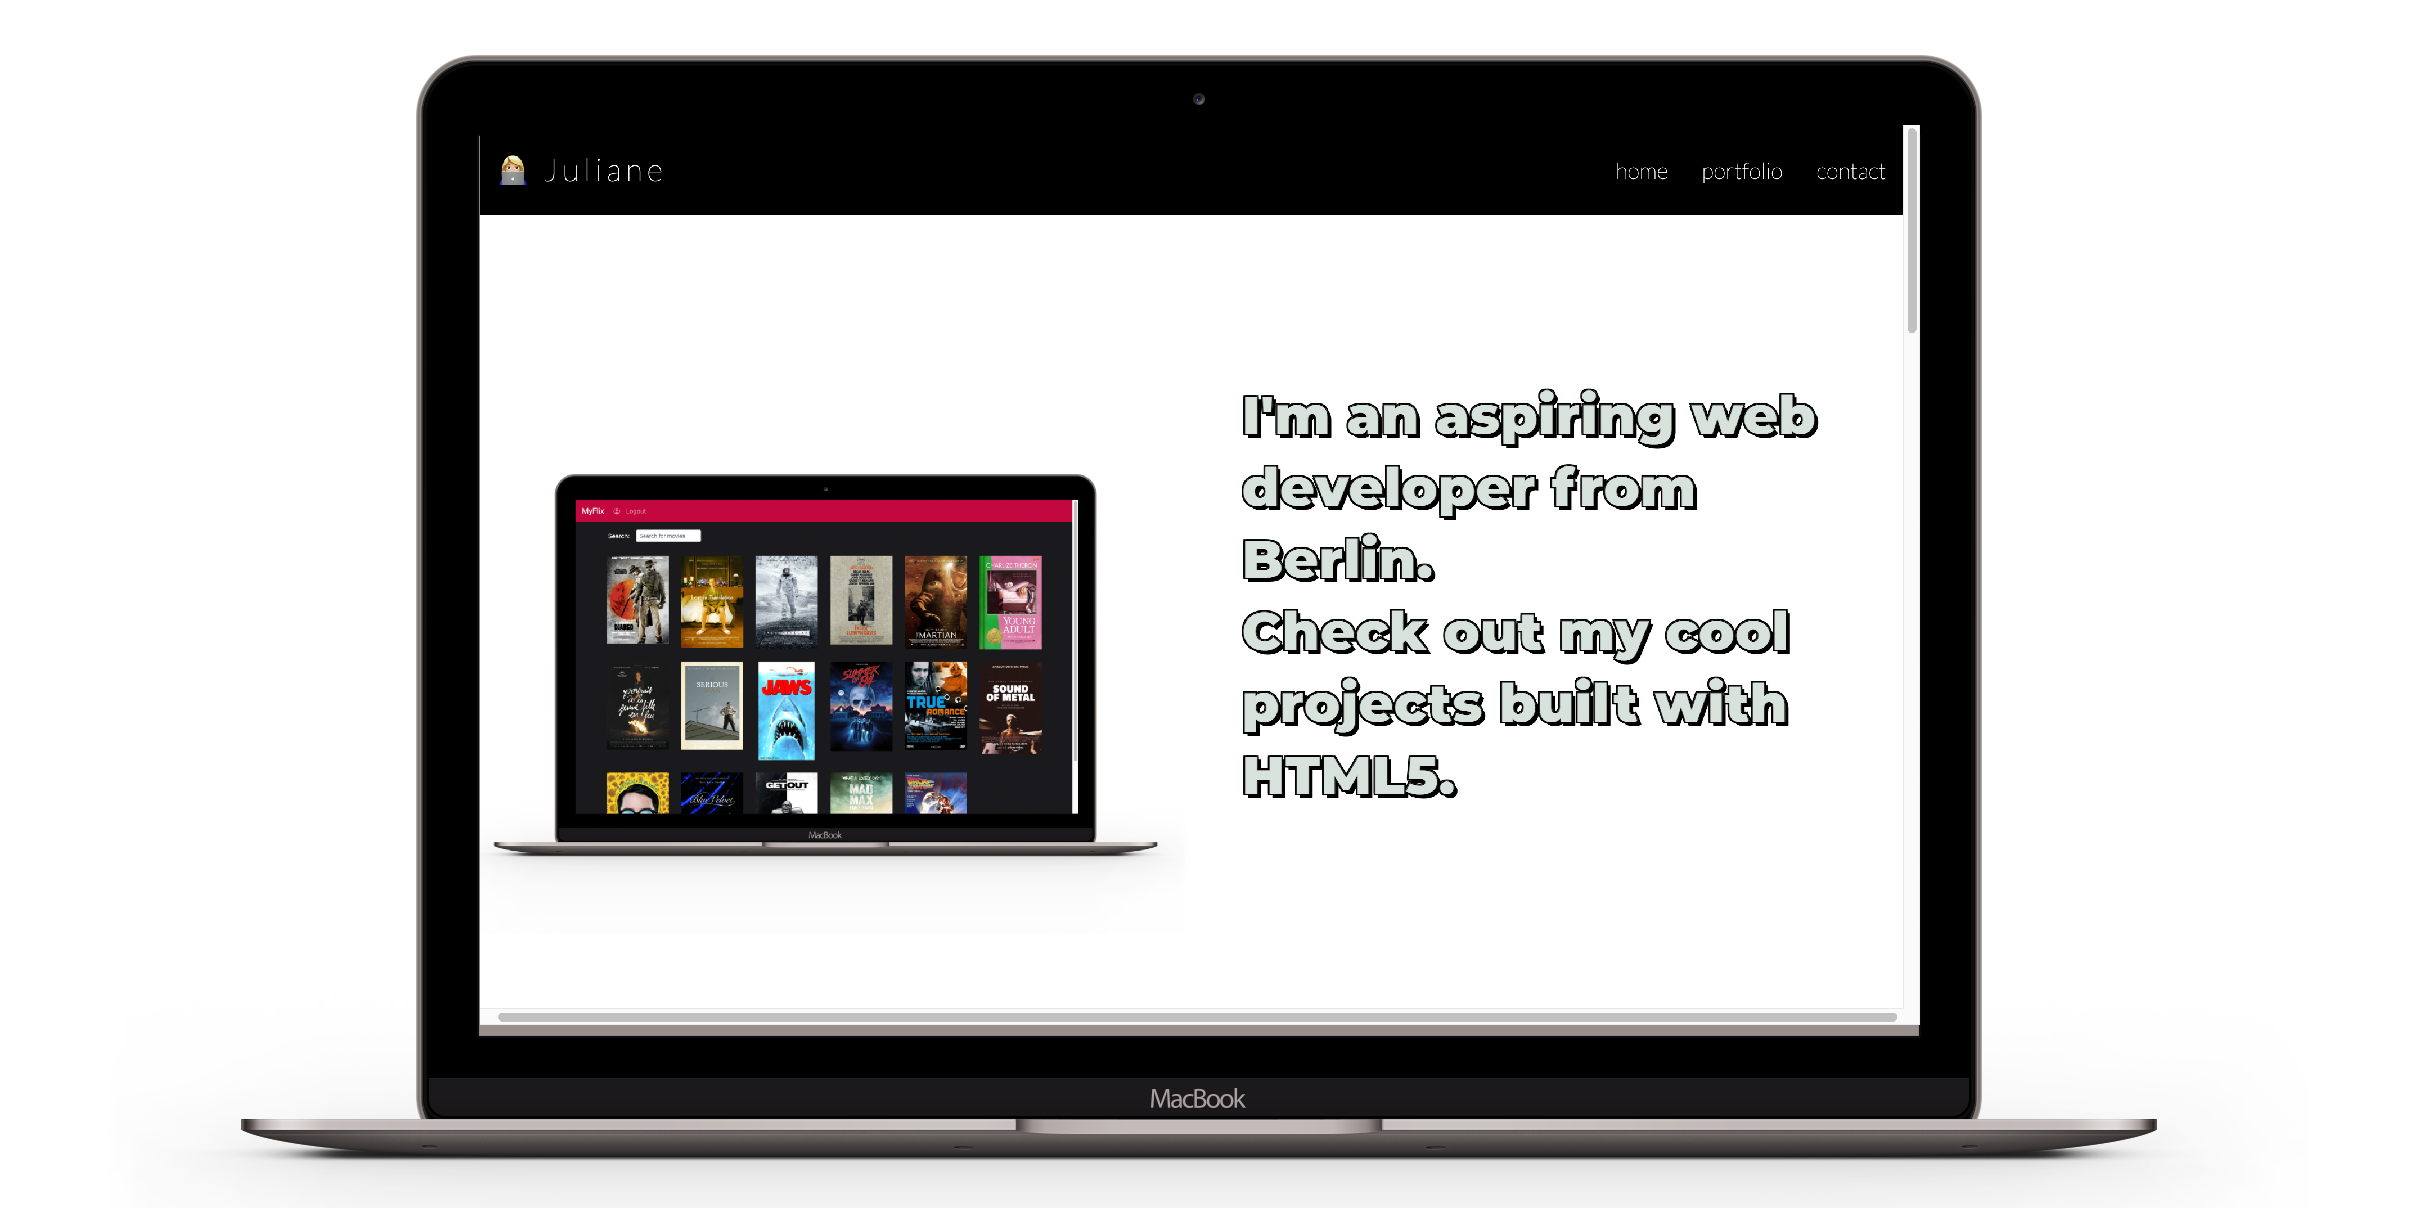
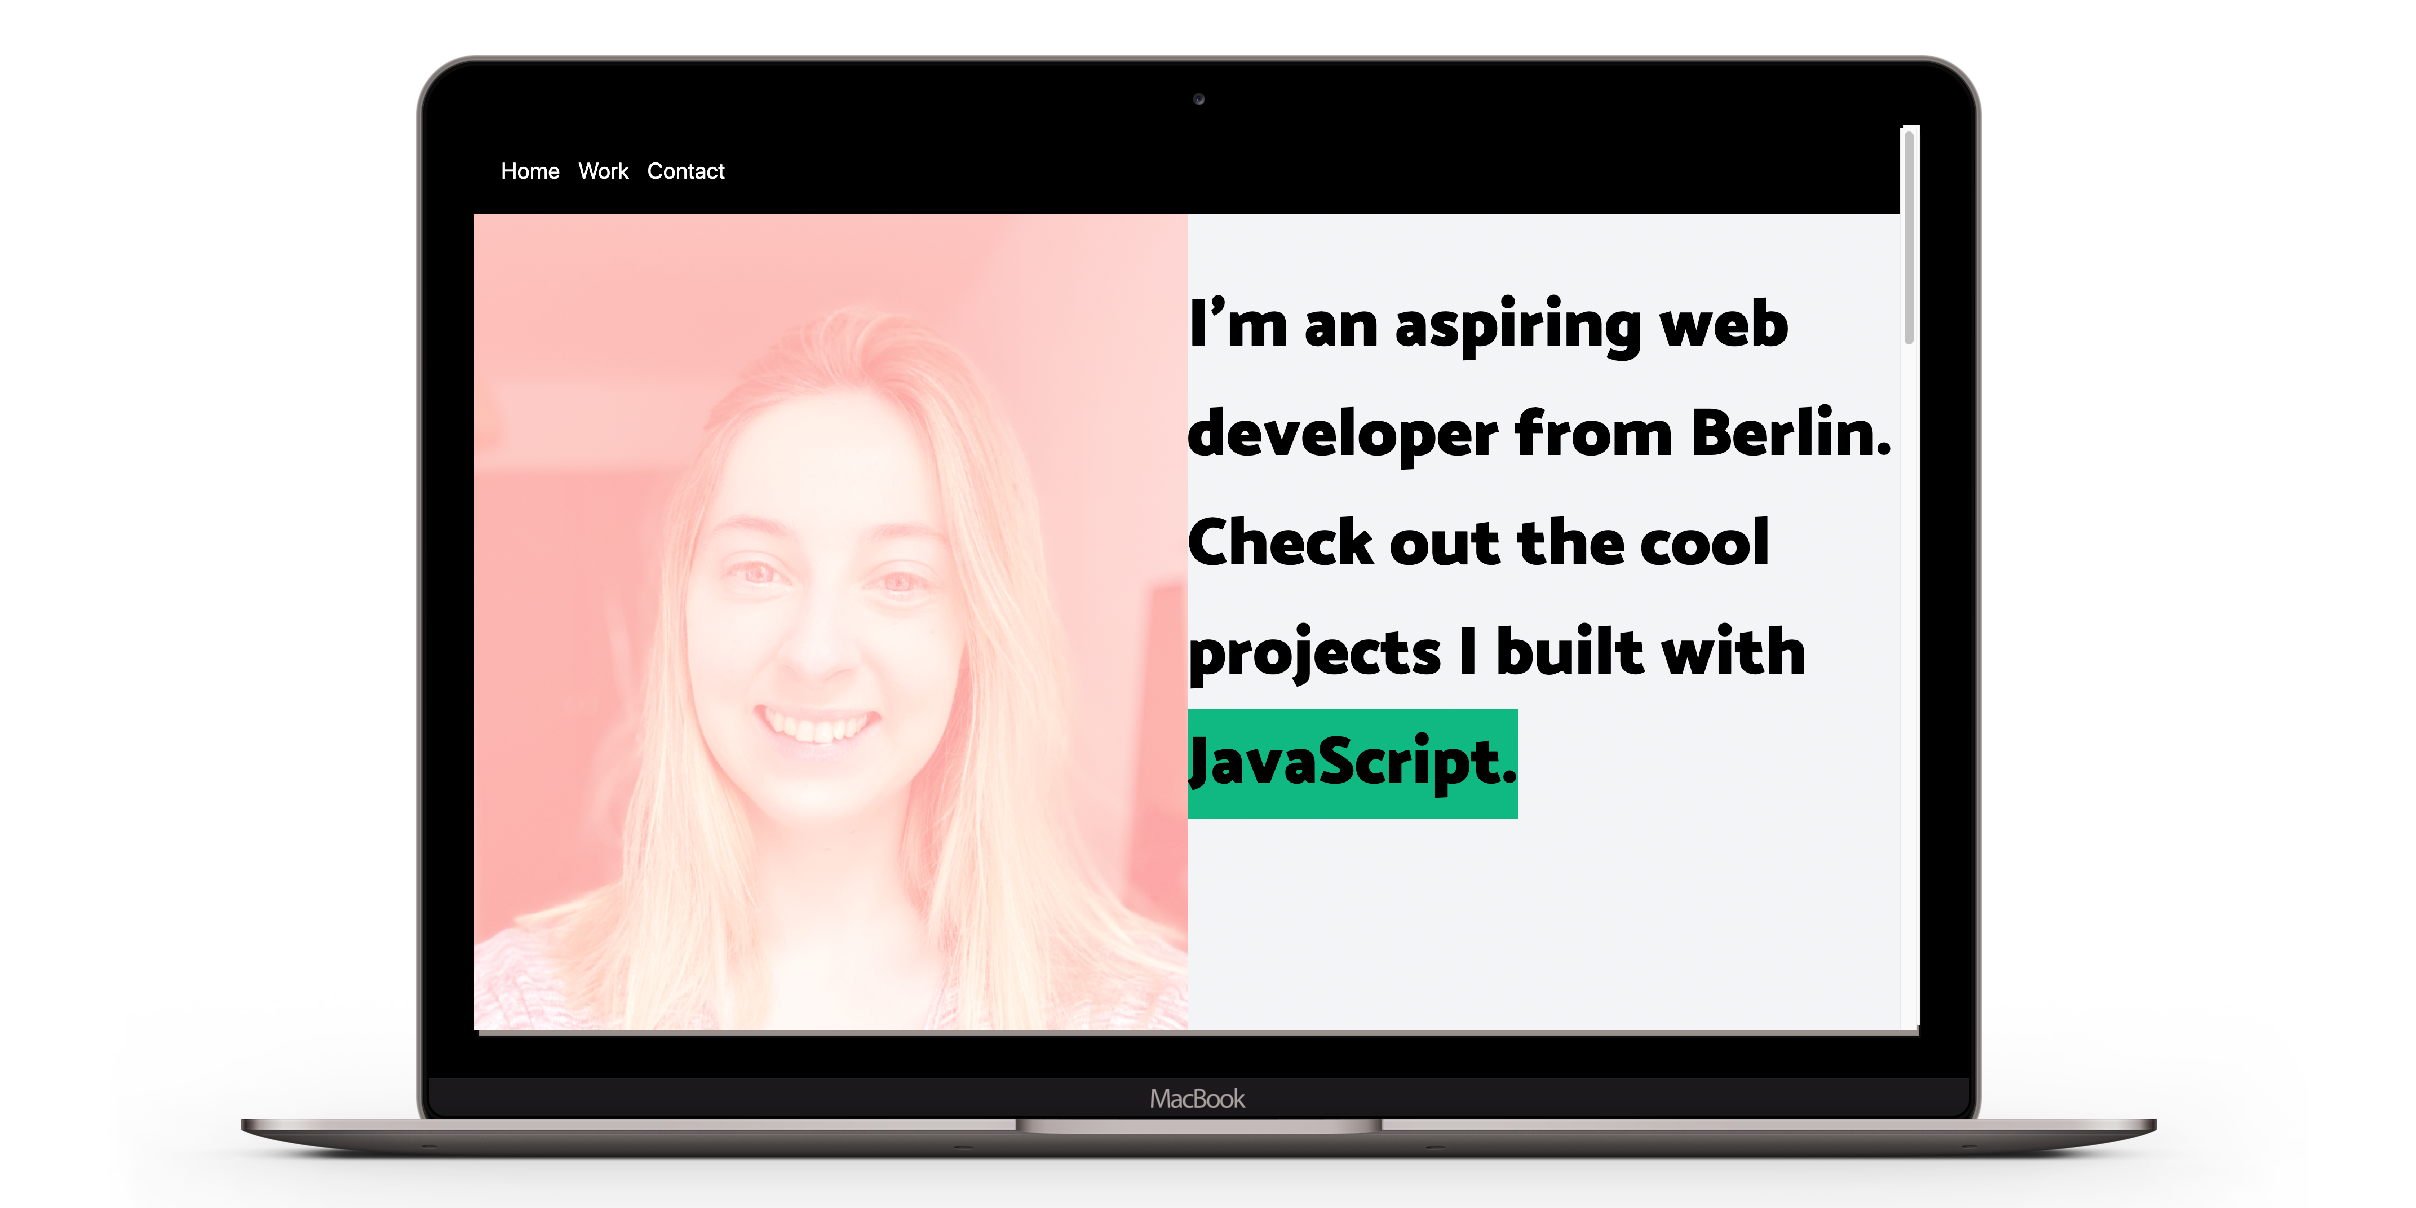
added routing and more projects

Changed region(s): [[0.1863, 0.1225, 0.8071, 0.8576], [0.7761, 0.1225, 0.8071, 0.1838]]

diff --git a/portfolio/src/components/Work/Work.jsx b/portfolio/src/components/Work/Work.jsx
@@ -5,6 +5,9 @@ import myflix from './macbook.png';
 import meetapp from './meetapp.png';
 import pokedex from './pokemon.png';
 import portfolio from './portfolio.png';
+import chattyapp from './chattyapp.png';
+import myflixAngular from './myflix_angular.png';
+import api from './api.png';
 import './Work.css';
 
 function Work() {
@@ -15,7 +18,7 @@ function Work() {
 					<div className='min-h-62'>
 						<img className='mx-auto pb-5' src={myflix} alt='' />
 					</div>
-					<h2 className='font-bold mb-5 text-gray-800'>MyFlix</h2>
+					<h2 className='font-bold mb-5 text-gray-800'>MyFlix - React</h2>
 					<p className='text-sm leading-relaxed text-gray-700'>
 						MyFlix is a{' '}
 						<span className='font-bold'>Single Page Application</span> built
@@ -26,7 +29,7 @@ function Work() {
 					</p>
 				</Link>
 
-				<div className='flex 2xl:flex-col flex-row justify-around pt-5'>
+				<div className='flex flex-row justify-around pt-5'>
 					<div
 						onClick={() => {
 							window.open(
@@ -93,7 +96,7 @@ function Work() {
 					</div>
 					<h2 className='font-bold mb-5 text-gray-800'>Pokédex</h2>
 					<p className='text-sm leading-relaxed text-gray-700'>
-						Pokédex is a<span className='font-bold'> Web Application</span>
+						Pokédex is a<span className='font-bold'> Web Application </span>
 						built with{' '}
 						<span className='font-bold'>
 							Vanilla JavaScript, SCSS and HTML5
@@ -127,6 +130,86 @@ function Work() {
 			</article>
 
 			<article className='md:justify-self-center flex flex-col shadow-xl mx-2 max-w-lg bg-red-100 py-10 px-10 transform duration-500 hover:-translate-y-2 cursor-pointer max-h-190 rounded-md'>
+				<Link to='/chattyapp'>
+					<div className='mx-10'>
+						<img className='mx-auto pb-5' src={chattyapp} alt='Chatty App' />
+					</div>
+					<h2 className='font-bold mb-5 text-gray-800'>Chatty App</h2>
+					<p className='text-sm leading-relaxed text-gray-700'>
+						Chatty App is a <span className='font-bold'>Hybrid App </span>
+						built with{' '}
+						<span className='font-bold'>
+							React Native, Expo and Google Firebase
+						</span>
+						. Users can chat in one room and send each other photos.
+						<span className='font-bold'> Read more...</span>
+					</p>
+				</Link>
+				<div className='flex flex-row justify-around pt-5'>
+					<div
+						onClick={() => {
+							window.open(
+								'https://github.com/julianegoe/CF_chat_app',
+								'_blank'
+							);
+						}}
+						className=' 2xl:my-2 2xl:text-center 2xl:p-1 p-3  border-2 border-black rounded-md text-base hover:bg-green-500 hover:border-green-500 cursor-pointer hover:text-white'>
+						GitHub
+					</div>
+					<div
+						onClick={() => {
+							window.open(
+								'https://www.youtube.com/watch?v=_tZZViF0pDU',
+								'_blank'
+							);
+						}}
+						className=' 2xl:my-2 2xl:text-center 2xl:p-1 p-3  border-2 border-black rounded-md text-base hover:bg-green-500 hover:border-green-500 cursor-pointer hover:text-white'>
+						Live Demo
+					</div>
+				</div>
+			</article>
+
+			<article className='md:justify-self-center flex flex-col shadow-xl mx-2 max-w-lg bg-red-100 py-10 px-10 transform duration-500 hover:-translate-y-2 cursor-pointer max-h-190 rounded-md'>
+				<Link to='/myflix-angular'>
+					<div className='min-h-62'>
+						<img className='mx-auto pb-5' src={myflixAngular} alt='' />
+					</div>
+					<h2 className='font-bold mb-5 text-gray-800'>MyFlix - Angular</h2>
+					<p className='text-sm leading-relaxed text-gray-700'>
+						MyFlix is a{' '}
+						<span className='font-bold'> Single Page Application </span>
+						built with{' '}
+						<span className='font-bold'>Angular and Material Design</span>. It
+						showcases movie data supplied by a REST API and features a user
+						profile and favorites list.
+						<span className='font-bold'> Read more...</span>
+					</p>
+				</Link>
+				<div className='flex flex-row justify-around pt-5'>
+					<div
+						onClick={() => {
+							window.open(
+								'https://github.com/julianegoe/myflix-Angular-client',
+								'_blank'
+							);
+						}}
+						className=' 2xl:my-2 2xl:text-center 2xl:p-1 p-3  border-2 border-black rounded-md text-base hover:bg-green-500 hover:border-green-500 cursor-pointer hover:text-white'>
+						GitHub
+					</div>
+					<div
+						onClick={() => {
+							window.open(
+								'https://julianegoe.github.io/myflix-Angular-client/movies',
+								'_blank'
+							);
+						}}
+						className=' 2xl:my-2 2xl:text-center 2xl:p-1 p-3  border-2 border-black rounded-md text-base hover:bg-green-500 hover:border-green-500 cursor-pointer hover:text-white'>
+						Live Demo
+					</div>
+				</div>
+			</article>
+
+			<article className='md:justify-self-center flex flex-col shadow-xl mx-2 max-w-lg bg-red-100 py-10 px-10 transform duration-500 hover:-translate-y-2 cursor-pointer max-h-190 rounded-md'>
 				<Link to='/portfolio'>
 					<div className='min-h-62'>
 						<img className='mx-auto pb-5' src={portfolio} alt='' />
@@ -150,6 +233,44 @@ function Work() {
 						}}
 						className=' 2xl:my-2 2xl:text-center 2xl:p-1 p-3  border-2 border-black rounded-md text-base hover:bg-green-500 hover:border-green-500 cursor-pointer hover:text-white'>
 						GitHub
+					</div>
+				</div>
+			</article>
+
+			<article className='md:justify-self-center flex flex-col shadow-xl mx-2 max-w-lg bg-red-100 py-10 px-10 transform duration-500 hover:-translate-y-2 cursor-pointer max-h-190 rounded-md'>
+				<Link to='/movie-api'>
+					<div className='min-h-62'>
+						<img className='mx-auto pb-5' src={api} alt='' />
+					</div>
+					<h2 className='font-bold mb-5 text-gray-800'>Movie API</h2>
+					<p className='text-sm leading-relaxed text-gray-700'>
+						This is the backend to the MyFlix clients. It's a
+						<span className='font-bold'> REST API</span> built with{' '}
+						<span className='font-bold'>Node.js, Express and MongoDB.</span> It
+						has serveral endpoints to fetch and alter movie and user data.
+						<span className='font-bold'> Read more...</span>
+					</p>
+				</Link>
+				<div className='flex flex-row justify-around pt-5'>
+					<div
+						onClick={() => {
+							window.open(
+								'https://github.com/julianegoe/CF_movie_api',
+								'_blank'
+							);
+						}}
+						className=' 2xl:my-2 2xl:text-center 2xl:p-1 p-3  border-2 border-black rounded-md text-base hover:bg-green-500 hover:border-green-500 cursor-pointer hover:text-white'>
+						GitHub
+					</div>
+					<div
+						onClick={() => {
+							window.open(
+								'http://myflix-0001.herokuapp.com/documentation.html',
+								'_blank'
+							);
+						}}
+						className=' 2xl:my-2 2xl:text-center 2xl:p-1 p-3  border-2 border-black rounded-md text-base hover:bg-green-500 hover:border-green-500 cursor-pointer hover:text-white'>
+						Documentation
 					</div>
 				</div>
 			</article>

diff --git a/portfolio/src/components/App.js b/portfolio/src/components/App.js
@@ -1,79 +1,132 @@
 import React, { useEffect, useState, useRef } from 'react';
-import {
-  BrowserRouter as Router,
-  Route,
-} from "react-router-dom";
+import { BrowserRouter as Router, Route } from 'react-router-dom';
 import Navbar from './navbar/navbar';
-import Home from './Home/Home'
-import Work from './Work/Work'
-import Contact from './Contact/Contact'
+import Home from './Home/Home';
+import Work from './Work/Work';
+import Contact from './Contact/Contact';
 import ProjectDetails from './ProjectDetails/ProjectDetails';
+import myflix from './Work/macbook.png';
+import meetapp from './Work/meetapp.png';
+import pokedex from './Work/pokemon.png';
+import portfolio from './Work/portfolio.png';
+import chattyapp from './Work/chattyapp.png';
+import myflixAngular from './Work/myflix_angular.png';
+import api from './Work/api.png';
 import './App.css';
 import '../index.css';
 
-
 function App() {
-  const workRef = useRef()
-  const homeRef = useRef()
-  const contactRef = useRef()
+	const workRef = useRef();
+	const homeRef = useRef();
+	const contactRef = useRef();
 
-  const [scrollElement, setScrollElement] = useState('')
-  
- 
-  useEffect(() => {
-    switch (scrollElement) {
-      case 'home': homeRef.current.scrollIntoView({ behavior: 'smooth' })
-      break;
-      case 'work': workRef.current.scrollIntoView({ behavior: 'smooth' })
-      break;
-      case 'contact': contactRef.current.scrollIntoView({ behavior: 'smooth' })
-      break;
-      default: console.log("scroll to home")
+	const [scrollElement, setScrollElement] = useState('');
 
-    }
-    return function cleanup() {
-      setScrollElement('')
-  }
-  }, [scrollElement])
+	useEffect(() => {
+		switch (scrollElement) {
+			case 'home':
+				homeRef.current.scrollIntoView({ behavior: 'smooth' });
+				break;
+			case 'work':
+				workRef.current.scrollIntoView({ behavior: 'smooth' });
+				break;
+			case 'contact':
+				contactRef.current.scrollIntoView({ behavior: 'smooth' });
+				break;
+			default:
+				console.log('scroll to home');
+		}
+		return function cleanup() {
+			setScrollElement('');
+		};
+	}, [scrollElement]);
 
-  const scrollToRef = (conponent) => {
-    setScrollElement(conponent)
-  }
-
+	const scrollToRef = (conponent) => {
+		setScrollElement(conponent);
+	};
 
 	return (
-		<Router className="box-border ">
+		<Router className='box-border '>
 			<Navbar scrollToRef={scrollToRef} />
-			
-      <Route exact path="/" render={() => {
-       return  (
-         <>
-         <div className="Home" ref={homeRef}>
-         <Home />
-         </div>
-         <div className="Work" ref={workRef}>
-         <Work />
-         </div>
-         <div className="Contact" ref={contactRef}> 
-         <Contact />
-         </div>
-         </>
-       )
-      }} />
 
-      <Route exact path="/myflix" render={() => {
-        return <ProjectDetails project="myflix" />
-      }} />
+			<Route
+				exact
+				path='/'
+				render={() => {
+					return (
+						<>
+							<div className='Home' ref={homeRef}>
+								<Home />
+							</div>
+							<div className='Work' ref={workRef}>
+								<Work />
+							</div>
+							<div className='Contact' ref={contactRef}>
+								<Contact />
+							</div>
+						</>
+					);
+				}}
+			/>
 
-      <Route exact path="/meetapp" render={() => {
-        return <ProjectDetails project="meetapp" />
-      }} />
+			<Route
+				exact
+				path='/myflix'
+				render={() => {
+					return <ProjectDetails project='MyFlix - React' image={myflix} />;
+				}}
+			/>
 
-      <Route exact path="/pokedex" render={() => {
-        return <ProjectDetails project="pokedex" />
-      }} />
-      </Router>
-	
+			<Route
+				exact
+				path='/meetapp'
+				render={() => {
+					return <ProjectDetails project='MeetApp' image={meetapp} />;
+				}}
+			/>
+
+			<Route
+				exact
+				path='/pokedex'
+				render={() => {
+					return <ProjectDetails project='Pokédex' image={pokedex} />;
+				}}
+			/>
+
+			<Route
+				exact
+				path='/chattyapp'
+				render={() => {
+					return <ProjectDetails project='Chatty App' image={chattyapp} />;
+				}}
+			/>
+
+			<Route
+				exact
+				path='/portfolio'
+				render={() => {
+					return <ProjectDetails project='Portfolio' image={portfolio} />;
+				}}
+			/>
+
+			<Route
+				exact
+				path='/myflix-angular'
+				render={() => {
+					return (
+						<ProjectDetails project='MyFlix - Angular' image={myflixAngular} />
+					);
+				}}
+			/>
+
+			<Route
+				exact
+				path='/movie-api'
+				render={() => {
+					return <ProjectDetails project='Movie API' image={api} />;
+				}}
+			/>
+		</Router>
 	);
 }
 

diff --git a/portfolio/src/components/ProjectDetails/ProjectDetails.jsx b/portfolio/src/components/ProjectDetails/ProjectDetails.jsx
@@ -1,8 +1,13 @@
 import React from 'react';
 import '../../index.css';
 
-function ProjectDetails({project}) {
-    return <div className="conatiner pt-28 mx-3">{project}</div>
+function ProjectDetails({ project, image }) {
+	return (
+		<div className='py-20 sm:px-20 md:px-48 mx-auto bg-red-100 '>
+			<h1 className='my-10 font-bold text-5xl'>{project}</h1>
+			<img src={image} alt={project} />
+		</div>
+	);
 }
 
-export default ProjectDetails
+export default ProjectDetails;
